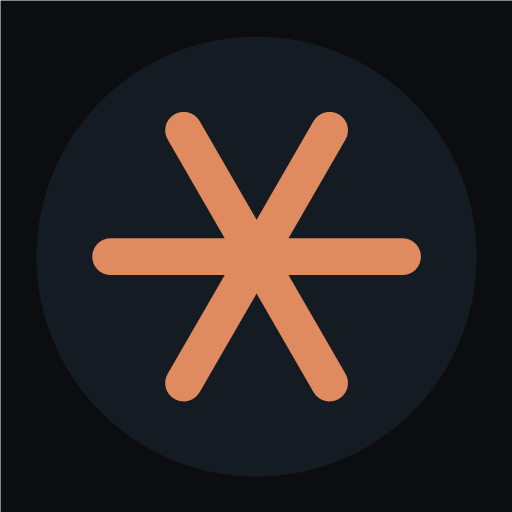
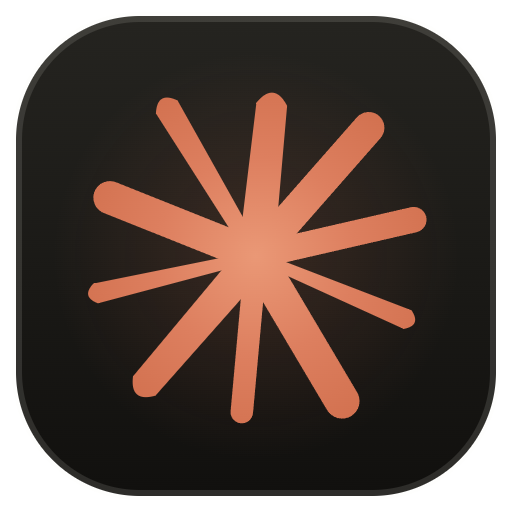
APP 2.4.122：通知栏小图标、手机页过程头像与空状态
- 通知栏使用专用小星图标，移除右侧重复大图标
- 过程条前新增星形头像，运行中循环动画
- 新对话显示空状态，用户气泡与过程框对齐
- 选中文字高亮与客户端同步

diff --git a/overlay/claude-gui/public/m.js b/overlay/claude-gui/public/m.js
@@ -952,6 +952,24 @@
     return out;
   }
 
+  /** 新对话没有消息时，显示与客户端一致的空状态。 */
+  function chatEmptyNode() {
+    const cwd = (S.conv && S.conv.cwd) || '';
+    const d = el('div', 'chat-empty');
+    d.innerHTML = `
+      <div class="chat-empty-mark" aria-hidden="true">${PROCESS_STAR_SVG}</div>
+      <div class="chat-empty-title">开始对话</div>
+      <p class="chat-empty-sub">在下面的输入框里写下任务，点「发送」开始。</p>
+      ${cwd ? `<div class="chat-empty-folder">当前文件夹 <code>${escapeHtml(cwd)}</code></div>` : ''}
+      <div class="chat-empty-tips">点左下角回形针添加文件或图片</div>`;
+    return d;
+  }
+
+  function clearChatEmpty() {
+    const e = document.querySelector('#messages .chat-empty');
+    if (e) e.remove();
+  }
+
   function renderMessages(forceBottom = false, anchor = null) {
     const box = $('#messages');
     // 重建 DOM 前记住位置：用户正在往回翻时，不要被新过程块强行拽到底部
@@ -981,6 +999,10 @@
       }
     }
     box.innerHTML = '';
+    const historyMsgs = (S.conv && S.conv.messages) || [];
+    if (!historyMsgs.length && !S.live && !S.running && !S.pendingEcho) {
+      box.appendChild(chatEmptyNode());
+    }
 
     if (S.conv && S.conv.hasMore) {
       // 加载中途或自动补页链未结束时若有实时事件触发重建，新按钮也要保持“正在加载”状态。
@@ -1268,6 +1290,7 @@
   /** 发送成功后先本地画出自己的消息，不依赖 SSE 回显；回显到了再去重。 */
   function appendSentUser(msg) {
     if (!msg || !S.convId) return;
+    clearChatEmpty();
     if (S.running && S.live) {
       if ((S.live.users || []).some(u => sameUserPayload(u, msg))) return;
       S.live.users.push({ ...msg, optimistic: true, afterBlocks: (S.live.blocks || []).length });
@@ -1362,7 +1385,7 @@
         summaries.push(summary);
       }
       const procEl = processNode(processBlocks, steers);
-      wrap.appendChild(procEl);
+      wrap.appendChild(processRowNode(procEl, false));
       const sync = () => {
         for (const n of summaries) n.style.display = procEl.open ? 'none' : '';
       };
@@ -2668,6 +2691,18 @@
     });
   }
 
+  // 过程条前的星形头像：和客户端消息头像同一颗星，运行中单独做动画。
+  const PROCESS_STAR_SVG = '<svg class="spark" viewBox="28 28 200 200"><g transform="rotate(5.0 128 128)"><g stroke="currentColor" stroke-linecap="round"><g class="spark-ray" style="--sray-dur:1.9600s;--sray-delay:-0.4592s;--sray-min:0.9069"><line x1="128" y1="128" x2="178.54" y2="59.19" stroke-width="15.74"/></g><g class="spark-ray" style="--sray-dur:3.9200s;--sray-delay:-3.2805s;--sray-min:0.9007"><line x1="128" y1="128" x2="204.97" y2="103.06" stroke-width="12.83"/></g><g class="spark-ray" style="--sray-dur:3.9200s;--sray-delay:-1.3515s;--sray-min:0.9119"><line x1="128" y1="128" x2="177.20" y2="196.55" stroke-width="17.46"/></g><g class="spark-ray" style="--sray-dur:1.3067s;--sray-delay:-0.7673s;--sray-min:0.8848"><line x1="128" y1="128" x2="127.73" y2="206.38" stroke-width="11.24"/></g><g class="spark-ray" style="--sray-dur:1.3067s;--sray-delay:-0.9930s;--sray-min:0.8885"><line x1="128" y1="128" x2="52.67" y2="105.29" stroke-width="16.54"/></g></g><g class="spark-ray" style="--sray-dur:1.3067s;--sray-delay:-0.7207s;--sray-min:0.9112"><path d="M 136.96 128.15 L 136.95 51.84 Q 129.42 40.14 121.52 51.59 L 119.04 127.85 Z" fill="currentColor"/></g><g class="spark-ray" style="--sray-dur:1.3067s;--sray-delay:-0.7150s;--sray-min:0.9296"><path d="M 127.22 130.43 L 204.75 157.89 Q 213.51 155.39 207.83 148.27 L 128.78 125.57 Z" fill="currentColor"/></g><g class="spark-ray" style="--sray-dur:1.3067s;--sray-delay:-0.1089s;--sray-min:0.8947"><path d="M 120.97 122.95 L 71.98 193.29 Q 71.52 206.62 84.01 201.93 L 135.03 133.05 Z" fill="currentColor"/></g><g class="spark-ray" style="--sray-dur:1.3067s;--sray-delay:-0.0838s;--sray-min:0.8860"><path d="M 127.20 125.56 L 48.20 148.82 Q 42.55 156.00 51.36 158.45 L 128.80 130.44 Z" fill="currentColor"/></g><g class="spark-ray" style="--sray-dur:1.3067s;--sray-delay:-0.2619s;--sray-min:0.8941"><path d="M 131.08 125.77 L 82.16 53.96 Q 71.50 50.00 71.94 61.36 L 124.92 130.23 Z" fill="currentColor"/></g><circle cx="128" cy="128" r="10" fill="currentColor"/></g></svg>';
+
+  function processRowNode(details, live) {
+    const row = el('div', 'process-row' + (live ? ' live' : ''));
+    const avatar = el('span', 'process-avatar');
+    avatar.setAttribute('aria-hidden', 'true');
+    avatar.innerHTML = PROCESS_STAR_SVG;
+    row.append(avatar, details);
+    return row;
+  }
+
   /** 历史消息里的「过程」：思考、工具、中间结论和插话按原顺序折叠，默认合上 */
   function processNode(blocks, steers = []) {
     const d = el('details', 'process');
@@ -3492,7 +3527,7 @@
     const body = el('div', 'process-body');
     d.append(sum, body);
     d.addEventListener('toggle', scheduleProcessCollapseUpdate);
-    box.appendChild(d);
+    box.appendChild(processRowNode(d, true));
 
     S.liveProcessEl = d;
     S.liveProcessBody = body;

diff --git a/overlay/claude-gui/public/m.css b/overlay/claude-gui/public/m.css
@@ -31,6 +31,8 @@ button, input, textarea { font: inherit; color: inherit; }
 button { -webkit-tap-highlight-color: transparent; }
 [hidden] { display: none !important; }
 
+::selection { background: rgba(159, 194, 232, .35); color: #fff; }
+
 .screen {
   position: fixed;
   top: 0; left: 0; right: 0;
@@ -202,6 +204,29 @@ button { -webkit-tap-highlight-color: transparent; }
   display: flex; flex-direction: column; gap: 12px;
   -webkit-overflow-scrolling: touch;
 }
+
+/* 新对话空状态：和客户端一致，展示图标、说明与当前文件夹 */
+.chat-empty {
+  flex: 1 0 auto;
+  display: flex; flex-direction: column; align-items: center; justify-content: center;
+  padding: 28px 14px 44px; gap: 3px; text-align: center;
+  -webkit-user-select: none; user-select: none;
+}
+.chat-empty-mark {
+  width: 54px; height: 54px; flex: 0 0 auto;
+  color: var(--accent); line-height: 0; margin-bottom: 14px;
+}
+.chat-empty-mark svg { width: 54px; height: 54px; display: block; }
+.chat-empty-title { font-size: 22px; font-weight: 650; letter-spacing: -.2px; color: var(--text); }
+.chat-empty-sub { margin: 3px 0 0; color: var(--muted); font-size: 13.5px; line-height: 1.5; }
+.chat-empty-folder { margin-top: 6px; color: var(--muted); font-size: 12.5px; word-break: break-all; }
+.chat-empty-folder code {
+  font-family: ui-monospace, "Cascadia Code", Consolas, monospace;
+  color: var(--text); background: var(--panel-2);
+  border: 1px solid var(--line); border-radius: 5px;
+  padding: 2px 7px; font-size: 11.5px;
+}
+.chat-empty-tips { margin-top: 24px; color: var(--faint); font-size: 11.5px; }
 .msg { position: relative; -webkit-touch-callout: none; }
 .msg.user {
   align-self: flex-end; max-width: 86%;
@@ -397,6 +422,31 @@ details.process[open] > summary::before { content: "▾"; }
 .process-body { border-top: 1px solid var(--line); padding: 8px 9px 9px; }
 .process-body > details + details { margin-top: 6px; }
 .process-body .txt.temp { color: var(--muted); font-size: 12.5px; margin: 0 0 6px; }
+
+/* 过程条前的星形头像：历史静态，运行中每根光线独立缩短 + 整星 80–100% 呼吸 */
+.process-row { display: flex; align-items: flex-start; gap: 8px; }
+.process-row > details.process { flex: 1 1 auto; min-width: 0; }
+.process-avatar {
+  flex: 0 0 auto; width: 24px; height: 24px; margin-top: 4px;
+  color: var(--accent); line-height: 0;
+}
+.process-avatar svg { width: 24px; height: 24px; display: block; }
+.process-row.live .process-avatar .spark-ray {
+  transform-box: view-box; transform-origin: 50% 50%;
+  animation: processSparkRay var(--sray-dur, 1.96s) ease-in-out infinite;
+  animation-delay: var(--sray-delay, 0s);
+}
+.process-row.live .process-avatar svg.spark {
+  animation: processSparkBreath 1.96s ease-in-out infinite;
+}
+@keyframes processSparkRay {
+  0%, 100% { transform: scale(1); }
+  50% { transform: scale(var(--sray-min, .92)); }
+}
+@keyframes processSparkBreath {
+  0%, 100% { opacity: 1; }
+  50% { opacity: .80; }
+}
 /* 过程框滚出标题后，固定在左侧的「收起」浮钮 */
 .process-collapse-btn {
   position: fixed;
@@ -614,6 +664,7 @@ details.process[open] > summary::before { content: "▾"; }
 .tool-state.run { color: var(--accent); }
 
 .live-turn { display: flex; flex-direction: column; gap: 12px; }
+.live-turn:empty { display: none; }
 .load-older {
   align-self: center; border: 0; background: transparent;
   color: var(--muted); font-size: 12px; padding: 8px 12px;
@@ -1240,7 +1291,7 @@ body { line-height: 1.58; }
 @media (max-width: 360px) {
   .hd h1 { font-size: 16px; }
   .balance-btn { max-width: 72px; }
-  .msg.user { max-width: 92%; }
+  .msg.user { max-width: calc(100% - 40px); }
 }
 
 /* 平板/横向：底部弹层不再铺满，阅读列居中 */

diff --git a/android/app/src/com/missyao/claudeworkbench/MainActivity.java b/android/app/src/com/missyao/claudeworkbench/MainActivity.java
@@ -47,6 +47,7 @@ import android.widget.Button;
 import android.widget.CheckBox;
 import android.widget.EditText;
 import android.widget.FrameLayout;
+import android.widget.ImageView;
 import android.widget.LinearLayout;
 import android.widget.ProgressBar;
 import android.widget.ScrollView;
@@ -551,14 +552,29 @@ public class MainActivity extends Activity {
         page.setBackgroundColor(BG);
         page.setPadding(dp(22), dp(46), dp(22), dp(26));
 
+        int markSize = dp(30);
+        int markGap = dp(10);
+        LinearLayout titleRow = new LinearLayout(this);
+        titleRow.setOrientation(LinearLayout.HORIZONTAL);
+        titleRow.setGravity(Gravity.CENTER_VERTICAL);
+        ImageView mark = new ImageView(this);
+        mark.setImageResource(R.drawable.ic_star_mark);
+        mark.setScaleType(ImageView.ScaleType.FIT_CENTER);
+        mark.setImportantForAccessibility(View.IMPORTANT_FOR_ACCESSIBILITY_NO);
+        titleRow.addView(mark, new LinearLayout.LayoutParams(markSize, markSize));
         TextView title = text("Claude 工作台", 26, FG);
         title.setTypeface(Typeface.DEFAULT_BOLD);
-        page.addView(title);
+        LinearLayout.LayoutParams tp = new LinearLayout.LayoutParams(
+            ViewGroup.LayoutParams.WRAP_CONTENT, ViewGroup.LayoutParams.WRAP_CONTENT);
+        tp.leftMargin = markGap;
+        titleRow.addView(title, tp);
+        page.addView(titleRow);
 
         TextView sub = text("选择在这台手机上工作，或远程连接电脑", 13, MUTED);
         LinearLayout.LayoutParams sp = new LinearLayout.LayoutParams(
             ViewGroup.LayoutParams.WRAP_CONTENT, ViewGroup.LayoutParams.WRAP_CONTENT);
         sp.topMargin = dp(6);
+        sp.leftMargin = markSize + markGap;
         page.addView(sub, sp);
 
         homePcStatus = text("", 12, BLUE);

diff --git a/android/app/src/com/missyao/claudeworkbench/EngineService.java b/android/app/src/com/missyao/claudeworkbench/EngineService.java
@@ -205,7 +205,7 @@ public class EngineService extends Service {
                 PendingIntent.FLAG_UPDATE_CURRENT | (Build.VERSION.SDK_INT >= 23 ? PendingIntent.FLAG_IMMUTABLE : 0));
         return b.setContentTitle("Claude 工作台 · 手机端")
                 .setContentText(text)
-                .setSmallIcon(android.R.drawable.stat_sys_download)
+                .setSmallIcon(R.drawable.ic_notification)
                 .setOngoing(true)
                 .setContentIntent(openPi)
                 .addAction(0, "查看日志", logPi)

diff --git a/android/app/src/com/missyao/claudeworkbench/LocalEngine.java b/android/app/src/com/missyao/claudeworkbench/LocalEngine.java
@@ -54,7 +54,7 @@ public final class LocalEngine {
                     + ALPINE_VERSION + "-aarch64.tar.gz"
     };
     private static final int SERVER_PORT = 4712;
-    private static final int ASSET_VERSION = 107;
+    private static final int ASSET_VERSION = 114;
     private static final String GCS_BASE =
             "https://storage.googleapis.com/claude-code-dist-86c565f3-f756-42ad-8dfa-d59b1c096819/claude-code-releases";
     private static final String FALLBACK_CLAUDE_VERSION = "2.1.319";
